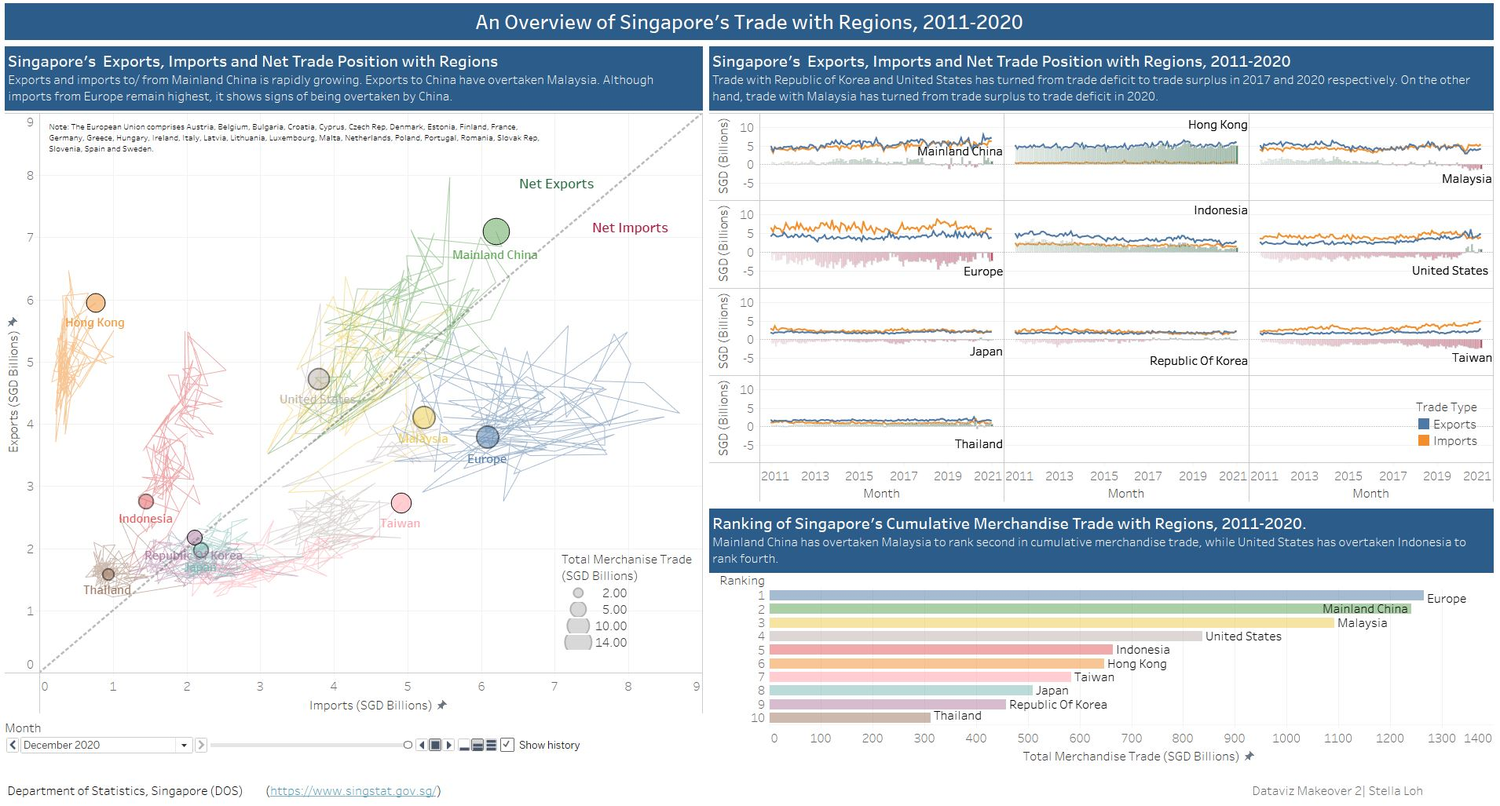
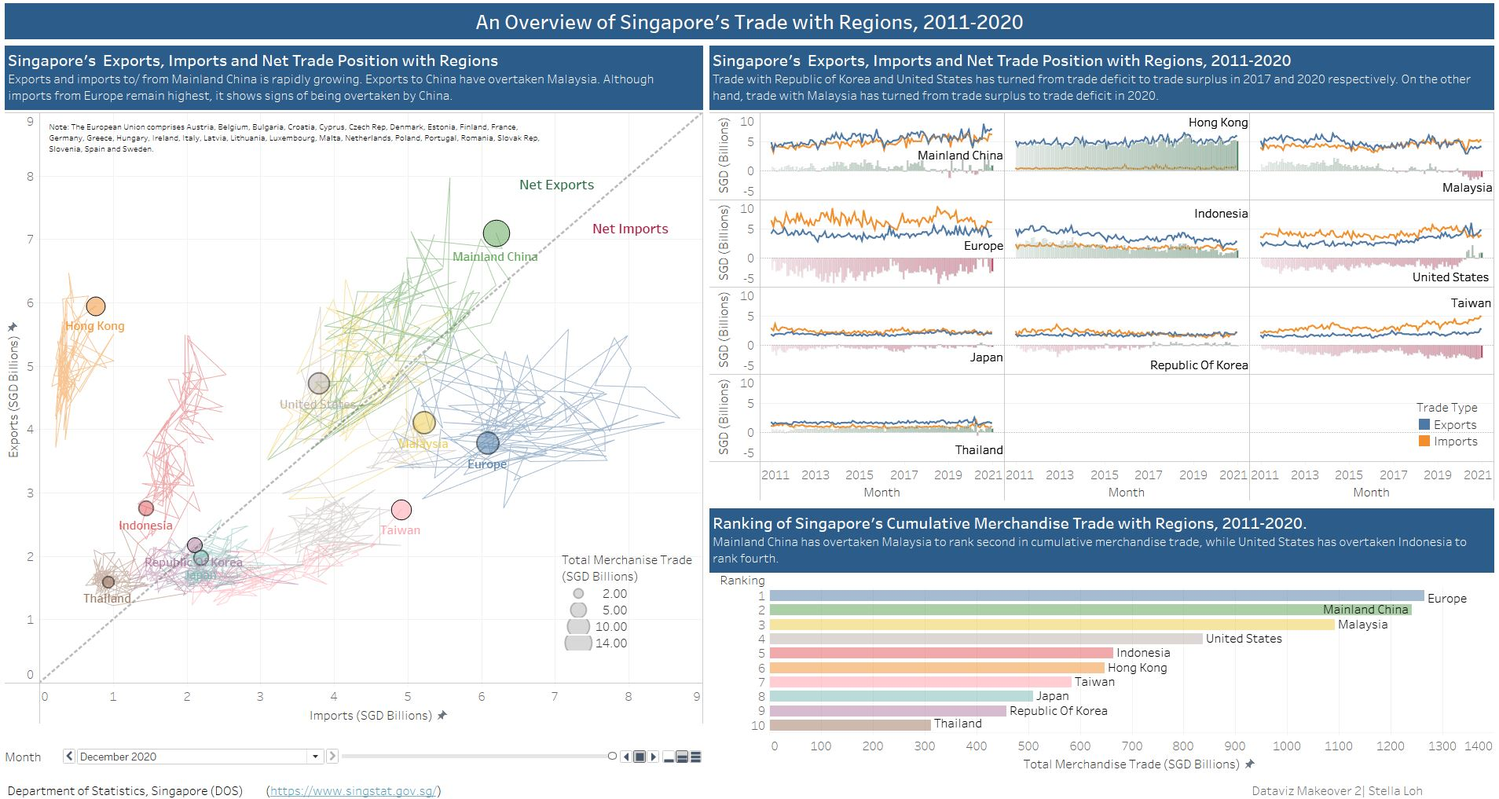
Finalize post 2

diff --git a/_posts/2021-06-08-dataviz-makeover2/dataviz-makeover2.html b/_posts/2021-06-08-dataviz-makeover2/dataviz-makeover2.html
@@ -116,7 +116,7 @@ code span.wa { color: #5e5e5e; font-style: italic; } /* Warning */
   <!--/radix_placeholder_rmarkdown_metadata-->
   
   <script type="text/json" id="radix-resource-manifest">
-  {"type":"character","attributes":{},"value":["dataviz-makeover2_files/anchor-4.2.2/anchor.min.js","dataviz-makeover2_files/bowser-1.9.3/bowser.min.js","dataviz-makeover2_files/distill-2.2.21/template.v2.js","dataviz-makeover2_files/header-attrs-2.8/header-attrs.js","dataviz-makeover2_files/jquery-1.11.3/jquery.min.js","dataviz-makeover2_files/popper-2.6.0/popper.min.js","dataviz-makeover2_files/tippy-6.2.7/tippy-bundle.umd.min.js","dataviz-makeover2_files/tippy-6.2.7/tippy-light-border.css","dataviz-makeover2_files/tippy-6.2.7/tippy.css","dataviz-makeover2_files/tippy-6.2.7/tippy.umd.min.js","dataviz-makeover2_files/webcomponents-2.0.0/webcomponents.js","Image/AddAnnotations.JPG","Image/AddLabels.JPG","Image/AddTrendLines.JPG","Image/AdjOpacity.JPG","Image/AnimationSelection.JPG","Image/AnimationSelectionBubble.JPG","Image/AnimationSettings.JPG","Image/AutoConnect.JPG","Image/BarLabels.JPG","Image/BubbleTooltip.JPG","Image/ChangeToBubble.JPG","Image/CleanStep.JPG","Image/CountryCalcField.JPG","Image/CountryToToolTip.JPG","Image/Createx-axis.JPG","Image/Createy-axis.JPG","Image/CurrentSetUp.JPG","Image/DashboardSize.JPG","Image/DashboardTitle.JPG","Image/DateToCol.JPG","Image/DatetoPages.JPG","Image/DatetoPagesBar.JPG","Image/DatetoPagesBubble.JPG","Image/DiagramJoinStep.jpg","Image/DiscreteFields.JPG","Image/EditAlias.JPG","Image/EditHighlight.JPG","Image/EditLabelPane.JPG","Image/EditSize.JPG","Image/EditTableCalc.JPG","Image/ExportsAligned.jpg","Image/ExportsAlignedMarkscard.JPG","Image/ExportstoCol.JPG","Image/fin.JPG","Image/finalviz.jpg","Image/FitHeight.JPG","Image/FormatDP.JPG","Image/FormatDPBar.JPG","Image/FormatDPBubble.JPG","Image/FormatTitle.JPG","Image/FormatTrendLines.JPG","Image/HideColFieldHeader.JPG","Image/HideColFieldLabels.JPG","Image/HideDualAxisHeader.JPG","Image/HideHeader.JPG","Image/HideRegion.JPG","Image/HideRowHeader.JPG","Image/ImportsAligned.jpg","Image/InitialViz.jpg","Image/JoinClauses.JPG","Image/LabelSelection.JPG","Image/LineSize.JPG","Image/LineSizeBubble.JPG","Image/MarksCardBar.JPG","Image/MarkscardColor.JPG","Image/MarkscardLabel.JPG","Image/MarkscardRegion.JPG","Image/MeasureValuesSlider.JPG","Image/MeasureValuesToCircle.JPG","Image/MeasureValuesTooltip.JPG","Image/MonthBar.JPG","Image/NetExportPosition.JPG","Image/NetExportsImportsCalc.JPG","Image/NetImportPosition.JPG","Image/Obs1.JPG","Image/Obs10.JPG","Image/Obs2.JPG","Image/Obs3.JPG","Image/Obs4.JPG","Image/Obs5.JPG","Image/Obs6.JPG","Image/Obs7.JPG","Image/Obs8.JPG","Image/Obs9.JPG","Image/OutputSelections.JPG","Image/PivotSheets.jpg","Image/proposeddesign.jpg","Image/RankingBubble.JPG","Image/RankingCalc.JPG","Image/RankingComp.JPG","Image/RankingRunCalc.JPG","Image/RankingTabCalc.JPG","Image/RankingTableCalc.JPG","Image/RegionDetail.JPG","Image/Rows.JPG","Image/RunningTotalCalc.JPG","Image/RunTotalCalc.JPG","Image/RunTotalCol.JPG","Image/SanitiseData.JPG","Image/SelectSheets.jpg","Image/SetUp.JPG","Image/Sketch.JPG","Image/SortExports.JPG","Image/SplitColumn.JPG","Image/SyncAxis.JPG","Image/thumbnail_IMG_9062.jpg","Image/ToolTipBar.JPG","Image/ToolTipNetExport.JPG","Image/TotalMerchTrade.JPG","Image/TotalMerchTradeSize.JPG","Image/TradeType.JPG","Image/TradeTypeBar.JPG","Image/TrimVariables.JPG","Image/UpdateColor.JPG","Image/UpdateColorBar.JPG","Image/UpdateLegend-animation.JPG","Image/UpdateLegend.JPG","Image/UpdateLegendBar-animation.JPG","Image/UpdateLegendDate.JPG","Image/UpdateLegendMerchTrade.JPG","Image/UpdateNetExportColors.JPG","Image/UpdateOpacity.JPG","Image/UpdateSize.JPG","Image/xGeneralPane.JPG","Image/xGeneralPaneBar.JPG","Image/xGeneralPaneBubble.JPG","Image/xGeneralPaneMerchTrade.JPG","Image/xTickMarksPane.JPG","Image/xTickMarksPaneBar.JPG","Image/xTickMarksPaneBubble.JPG","Image/xTickMarksPaneMerchTrade.JPG","Image/yGeneralPane.JPG","Image/yGeneralPaneBubble.JPG","Image/yTickMarksPane.JPG","Image/yTickMarksPaneBubble.JPG"]}
+  {"type":"character","attributes":{},"value":["dataviz-makeover2_files/anchor-4.2.2/anchor.min.js","dataviz-makeover2_files/bowser-1.9.3/bowser.min.js","dataviz-makeover2_files/distill-2.2.21/template.v2.js","dataviz-makeover2_files/header-attrs-2.8/header-attrs.js","dataviz-makeover2_files/jquery-1.11.3/jquery.min.js","dataviz-makeover2_files/popper-2.6.0/popper.min.js","dataviz-makeover2_files/tippy-6.2.7/tippy-bundle.umd.min.js","dataviz-makeover2_files/tippy-6.2.7/tippy-light-border.css","dataviz-makeover2_files/tippy-6.2.7/tippy.css","dataviz-makeover2_files/tippy-6.2.7/tippy.umd.min.js","dataviz-makeover2_files/webcomponents-2.0.0/webcomponents.js","Image/AddAnnotations.JPG","Image/AddLabels.JPG","Image/AddTrendLines.JPG","Image/AdjOpacity.JPG","Image/AnimationSelection.JPG","Image/AnimationSelectionBubble.JPG","Image/AnimationSettings.JPG","Image/AutoConnect.JPG","Image/BarLabels.JPG","Image/BubbleTooltip.JPG","Image/ChangeToBubble.JPG","Image/CleanStep.JPG","Image/CountryCalcField.JPG","Image/CountryToToolTip.JPG","Image/Createx-axis.JPG","Image/Createy-axis.JPG","Image/CurrentSetUp.JPG","Image/DashboardSize.JPG","Image/DashboardTitle.JPG","Image/DateToCol.JPG","Image/DatetoPages.JPG","Image/DatetoPagesBar.JPG","Image/DatetoPagesBubble.JPG","Image/DiagramJoinStep.jpg","Image/DiscreteFields.JPG","Image/EditAlias.JPG","Image/EditHighlight.JPG","Image/EditLabelPane.JPG","Image/EditSize.JPG","Image/EditTableCalc.JPG","Image/ExportsAligned.jpg","Image/ExportsAlignedMarkscard.JPG","Image/ExportstoCol.JPG","Image/fin.JPG","Image/finalviz.jpg","Image/FitHeight.JPG","Image/FormatDP.JPG","Image/FormatDPBar.JPG","Image/FormatDPBubble.JPG","Image/FormatTitle.JPG","Image/FormatTrendLines.JPG","Image/HideColFieldHeader.JPG","Image/HideColFieldLabels.JPG","Image/HideDualAxisHeader.JPG","Image/HideHeader.JPG","Image/HideRegion.JPG","Image/HideRowHeader.JPG","Image/ImportsAligned.jpg","Image/InitialViz.jpg","Image/JoinClauses.JPG","Image/LabelSelection.JPG","Image/LineSize.JPG","Image/LineSizeBubble.JPG","Image/MarksCardBar.JPG","Image/MarkscardColor.JPG","Image/MarkscardLabel.JPG","Image/MarkscardRegion.JPG","Image/MeasureValuesSlider.JPG","Image/MeasureValuesToCircle.JPG","Image/MeasureValuesTooltip.JPG","Image/MonthBar.JPG","Image/NetExportPosition.JPG","Image/NetExportsImportsCalc.JPG","Image/NetImportPosition.JPG","Image/Obs1.JPG","Image/Obs10.JPG","Image/Obs2.JPG","Image/Obs3.JPG","Image/Obs4.JPG","Image/Obs5.JPG","Image/Obs6.JPG","Image/Obs7.JPG","Image/Obs8.JPG","Image/Obs9.JPG","Image/OutputSelections.JPG","Image/PivotSheets.jpg","Image/proposeddesign.jpg","Image/RankingBubble.JPG","Image/RankingCalc.JPG","Image/RankingComp.JPG","Image/RankingRunCalc.JPG","Image/RankingTabCalc.JPG","Image/RankingTableCalc.JPG","Image/RegionDetail.JPG","Image/Rows.JPG","Image/RunningTotalCalc.JPG","Image/RunTotalCalc.JPG","Image/RunTotalCol.JPG","Image/SanitiseData.JPG","Image/SelectSheets.jpg","Image/SetUp.JPG","Image/Sketch.JPG","Image/SliderCustomise.JPG","Image/SortExports.JPG","Image/SplitColumn.JPG","Image/SyncAxis.JPG","Image/thumbnail_IMG_9062.jpg","Image/ToolTipBar.JPG","Image/ToolTipNetExport.JPG","Image/TotalMerchTrade.JPG","Image/TotalMerchTradeSize.JPG","Image/TradeType.JPG","Image/TradeTypeBar.JPG","Image/TrimVariables.JPG","Image/UpdateColor.JPG","Image/UpdateColorBar.JPG","Image/UpdateLegend-animation.JPG","Image/UpdateLegend.JPG","Image/UpdateLegendBar-animation.JPG","Image/UpdateLegendDate.JPG","Image/UpdateLegendMerchTrade.JPG","Image/UpdateNetExportColors.JPG","Image/UpdateOpacity.JPG","Image/UpdateSize.JPG","Image/xGeneralPane.JPG","Image/xGeneralPaneBar.JPG","Image/xGeneralPaneBubble.JPG","Image/xGeneralPaneMerchTrade.JPG","Image/xTickMarksPane.JPG","Image/xTickMarksPaneBar.JPG","Image/xTickMarksPaneBubble.JPG","Image/xTickMarksPaneMerchTrade.JPG","Image/yGeneralPane.JPG","Image/yGeneralPaneBubble.JPG","Image/yTickMarksPane.JPG","Image/yTickMarksPaneBubble.JPG"]}
   </script>
   <!--radix_placeholder_navigation_in_header-->
   <!--/radix_placeholder_navigation_in_header-->
@@ -2144,6 +2144,12 @@ body{
 <figure>
 <img src="Image/finalviz.jpg" alt="Figure 101: Add annotations" /><figcaption aria-hidden="true">Figure 101: Add annotations</figcaption>
 </figure>
+<ol start="71" type="1">
+<li>Next, we will customize the date slider. Right click on arrow next to the date container. Select Customize &gt; Click on Show History Controls. This will remove the checkbox for Show History.</li>
+</ol>
+<figure>
+<img src="Image/SliderCustomise.JPG" alt="Figure 102: Add annotations" /><figcaption aria-hidden="true">Figure 102: Add annotations</figcaption>
+</figure>
 <p>Note: We have decided not to utilize the simultaneous style animation offered in Tableau Desktop. Utilizing this style would not allow us to see the history of net trade in the line charts, which offers users insights into how the net trade for each region is trending.</p>
 <h1 id="observations">6. Observations</h1>
 <p>One way to study Singapore’s trade patterns with various trading partners is to track how net trade changes across time. The above dashboard does this by plotting Singapore’s exports, imports, net trade and cumulative merchandise trade with various regions, for the period 2011-2020.</p>
@@ -2159,25 +2165,25 @@ body{
 <li>Imports from Taiwan reached a new high in Dec’20 (S$4.91 billion) and has been on a steady uptrend in 2020. Although exports to Taiwan has also reached a new high in Dec’20 (S$2.73 billion), the rate of increase in imports exceeds that of exports in 2020, resulting in a growing trade deficit with Taiwan. This can be observed from the steeper slope of the import line compared to export line in 2020. </br> A possible reason for the increase in imports could be due to the Covid-19 pandemic. Taiwan was able to successfully control the pandemic as compared to some of Singapore’s other trade partners. Hence some of the imports may have been diverted to Taiwan.</li>
 </ol>
 <figure>
-<img src="Image/Obs1.JPG" style="width:75.0%" alt="Figure 102: Taiwan line chart" /><figcaption aria-hidden="true">Figure 102: Taiwan line chart</figcaption>
+<img src="Image/Obs1.JPG" style="width:75.0%" alt="Figure 103: Taiwan line chart" /><figcaption aria-hidden="true">Figure 103: Taiwan line chart</figcaption>
 </figure>
 <ol start="2" type="1">
 <li>Both exports and imports from Malaysia saw a steep decline in Apr’20 and rebounded strongly in Jun’20. This may be due to the circuit breaker and MCO period in Singapore and Malaysia respectively where citizens were encouraged to stay home and many shops were closed for business, resulting in lower imports by both Singapore and Malaysia. The circuit breaker period in Singapore began in Apr’20 and measures were <a href="https://www.channelnewsasia.com/news/singapore/covid-19-circuit-breaker-chronicles-charting-evolution-12779048">relaxed in Jun’20</a>, which coincides with the strong rebound in imports. </br> Singapore has consistently been in a net trade deficit with Malaysia since early 2020. Singapore <a href="https://www.sfa.gov.sg/food-farming/singapore-food-supply/the-food-we-eat#:~:text=With%20little%20farming%20land%2C%20Singapore,13%25%20of%20all%20the%20vegetables">imports over 90% of the food consumed</a> in the country and hence the lack of transportation options, coupled with the severity of the pandemic in some of the trading partners, may have resulted in increased imports from Malaysia due its geographical proximity.</li>
 </ol>
 <figure>
-<img src="Image/Obs2.JPG" alt="Figure 103: Malaysia line chart" /><figcaption aria-hidden="true">Figure 103: Malaysia line chart</figcaption>
+<img src="Image/Obs2.JPG" alt="Figure 104: Malaysia line chart" /><figcaption aria-hidden="true">Figure 104: Malaysia line chart</figcaption>
 </figure>
 <ol start="3" type="1">
 <li>Singapore’s net trade deficit with United States has been showing a decreasing trend since Aug’19, and eventually becoming a net trade surplus for most of 2020. This is due to declining imports, with the largest decline (S$1.45 billion) between Mar’20 and May’20. We also see an increasing trend for exports to United States with a steady increase since Feb’17 and peaking in Jul’20 (S$5.94 billion).</li>
 </ol>
 <figure>
-<img src="Image/Obs3.JPG" alt="Figure 104: United States line chart" /><figcaption aria-hidden="true">Figure 104: United States line chart</figcaption>
+<img src="Image/Obs3.JPG" alt="Figure 105: United States line chart" /><figcaption aria-hidden="true">Figure 105: United States line chart</figcaption>
 </figure>
 <ol start="4" type="1">
 <li>We have also observed a declining trade deficit with Europe, brought about by declining imports. Imports peaked in Jul’18 (S$8.69 billion) and has seen a downtrend since. We noticed a sharp dip in imports between May’19 to Jun’19 (S$7.99 billion to S$6.05 billion), before recovering slightly and another sharp dip between Jan’20 to May’20 (S$6.86 billion to S$4.63 billion). This may be due to heightened pandemic measures leading to the circuit breaker period in Singapore. As most shops were closed during this period and citizens were encouraged to stay in, this may have reduced demand for machinery and vehicles, which are the <a href="https://ec.europa.eu/eurostat/statistics-explained/index.php?title=Singapore-EU_-_international_trade_in_goods_statistics#EU-Singapore_trade_by_type_of_goods">main imports from Europe</a>. </br> We also noticed that net trade deficit with Europe forms a double hump pattern- increasing steadily from 2011 and peaking in Oct’13 (-S$4.37 billion), then steadily declining to a low in May’16. This is followed by a steady increase and peaking once more in Jul’18 (-S$4.52 billion) and downtrend till Sep’20.</li>
 </ol>
 <figure>
-<img src="Image/Obs4.JPG" alt="Figure 105: Europe line chart" /><figcaption aria-hidden="true">Figure 105: Europe line chart</figcaption>
+<img src="Image/Obs4.JPG" alt="Figure 106: Europe line chart" /><figcaption aria-hidden="true">Figure 106: Europe line chart</figcaption>
 </figure>
 <ol start="5" type="1">
 <li>The bubble chart shows the trending for each region’s exports and imports over the past ten years. We are able to see the patterns that each region makes over the period, namely:
@@ -2194,37 +2200,37 @@ body{
 </ol></li>
 </ol>
 <figure>
-<img src="Image/Obs5.JPG" alt="Figure 106: Insights from bubble chart" /><figcaption aria-hidden="true">Figure 106: Insights from bubble chart</figcaption>
+<img src="Image/Obs5.JPG" alt="Figure 107: Insights from bubble chart" /><figcaption aria-hidden="true">Figure 107: Insights from bubble chart</figcaption>
 </figure>
 <ol start="6" type="1">
 <li>Singapore’s net trade balance with Indonesia is on a declining trend across the 10 years, mainly brought about by declining exports. Exports peaked in Jul’13 (S$5.49 billion) and has been generally downtrend since. This is consistent with what we observed in the bubble chart where exports are declining at a faster rate compared to imports. Singapore’s <a href="https://www.enterprisesg.gov.sg/-/media/esg/files/media-centre/media-releases/2020/feb-2020/mr-002a20-singapore-and-indonesia/annex-b---latest-bilateral-trade-information-between-indonesia-and-singapore.pdf?la=en">main exports</a> to Indonesia are refined petroleum, petrochemicals and telecommunications equipment.</li>
 </ol>
 <figure>
-<img src="Image/Obs6.JPG" alt="Figure 107: Indonesia line chart" /><figcaption aria-hidden="true">Figure 107: Indonesia line chart</figcaption>
+<img src="Image/Obs6.JPG" alt="Figure 108: Indonesia line chart" /><figcaption aria-hidden="true">Figure 108: Indonesia line chart</figcaption>
 </figure>
 <ol start="7" type="1">
 <li>Singapore’s trade deficit with Republic of Korea has turned to a consistent trade surplus since 2018. This is mainly due to declining imports while exports have remained relatively consistent. Imports peaked in Nov’12 (S$3.52 billion) and has been generally downtrend since.</li>
 </ol>
 <figure>
-<img src="Image/Obs7.JPG" alt="Figure 108: Korea line chart" /><figcaption aria-hidden="true">Figure 108: Korea line chart</figcaption>
+<img src="Image/Obs7.JPG" alt="Figure 109: Korea line chart" /><figcaption aria-hidden="true">Figure 109: Korea line chart</figcaption>
 </figure>
 <ol start="8" type="1">
 <li>Sharp increase in exports to Thailand from S$1.70 billion to S$2.51 billion between Feb’20 to Mar’20, followed by a steep decline till May’20 (S$2.51 billion to S$1.22 billion). We see a similar spike in imports from Thailand from S$1.09 billion to S$1.98 billion between Mar’20 and Apr’20, followed by a sharp decline to S$0.80 billion in Jun’20. Main exports and imports from Thailand is refined petroleum. <a href="https://www.argusmedia.com/en/news/2129192-thailand-cuts-crude-imports-in-may">Weak refining margins</a> may have prompted Thai refiners to lower crude import volumes in May’20, coinciding with the drop in exports observed.</li>
 </ol>
 <figure>
-<img src="Image/Obs8.JPG" alt="Figure 109: Thailand line chart" /><figcaption aria-hidden="true">Figure 109: Thailand line chart</figcaption>
+<img src="Image/Obs8.JPG" alt="Figure 110: Thailand line chart" /><figcaption aria-hidden="true">Figure 110: Thailand line chart</figcaption>
 </figure>
 <ol start="9" type="1">
 <li>Sharp decline in exports and imports to/from Mainland China observed between Dec’19 to Feb’20. Exports decreased from S$7.00 billion to S$3.91 billion while imports reduced from S$5.99 billion to S$3.98 billion. This decline coincides with the <a href="https://apnews.com/article/pandemics-wuhan-china-coronavirus-pandemic-e6147ec0ff88affb99c811149424239d">lockdown</a> in certain Chinese cities due to the severity of the pandemic. </br> Imports quickly rebounded to S$5.98 billion in Mar’20 while exports only showed a rebound and new high following Jul’20. Exports to Mainland China increased sharply between Jul’20 (S$5.40 billion) to Aug’20 (S$7.97 billion) and has been maintaining at a higher range since then. This may be due to China being one of the first countries to recover economically from the pandemic. China’s economy picked up speed in the fourth quarter of 2020, with <a href="https://www.straitstimes.com/business/economy/china-becomes-only-major-economy-to-avoid-recession-in-2020-growth-accelerates-in">growth beating expectations</a>. This may explain the increase in exports to China during the second half of 2020.</li>
 </ol>
 <figure>
-<img src="Image/Obs9.JPG" alt="Figure 110: China line chart" /><figcaption aria-hidden="true">Figure 110: China line chart</figcaption>
+<img src="Image/Obs9.JPG" alt="Figure 111: China line chart" /><figcaption aria-hidden="true">Figure 111: China line chart</figcaption>
 </figure>
 <ol start="10" type="1">
 <li>Mainland China has overtaken Malaysia to rank second highest in terms of cumulative merchandise trade over the period, since Apr’15. It has been able to widen the gap between second and third place since. United States has overtaken Indonesia to rank forth in terms of cumulative merchandise trade over the period, since Oct’15.</li>
 </ol>
 <figure>
-<img src="Image/Obs10.JPG" alt="Figure 111: Cumulative Merchandise Trade Bar Chart" /><figcaption aria-hidden="true">Figure 111: Cumulative Merchandise Trade Bar Chart</figcaption>
+<img src="Image/Obs10.JPG" alt="Figure 112: Cumulative Merchandise Trade Bar Chart" /><figcaption aria-hidden="true">Figure 112: Cumulative Merchandise Trade Bar Chart</figcaption>
 </figure>
 <div class="sourceCode" id="cb1"><pre class="sourceCode r distill-force-highlighting-css"><code class="sourceCode r"></code></pre></div>
 <!--radix_placeholder_article_footer-->

diff --git a/_site/posts/2021-06-08-dataviz-makeover2/index.html b/_site/posts/2021-06-08-dataviz-makeover2/index.html
@@ -117,7 +117,7 @@ code span.wa { color: #5e5e5e; font-style: italic; } /* Warning */
 <!--/radix_placeholder_rmarkdown_metadata-->
   
   <script type="text/json" id="radix-resource-manifest">
-  {"type":"character","attributes":{},"value":["dataviz-makeover2_files/anchor-4.2.2/anchor.min.js","dataviz-makeover2_files/bowser-1.9.3/bowser.min.js","dataviz-makeover2_files/distill-2.2.21/template.v2.js","dataviz-makeover2_files/header-attrs-2.8/header-attrs.js","dataviz-makeover2_files/jquery-1.11.3/jquery.min.js","dataviz-makeover2_files/popper-2.6.0/popper.min.js","dataviz-makeover2_files/tippy-6.2.7/tippy-bundle.umd.min.js","dataviz-makeover2_files/tippy-6.2.7/tippy-light-border.css","dataviz-makeover2_files/tippy-6.2.7/tippy.css","dataviz-makeover2_files/tippy-6.2.7/tippy.umd.min.js","dataviz-makeover2_files/webcomponents-2.0.0/webcomponents.js","Image/AddAnnotations.JPG","Image/AddLabels.JPG","Image/AddTrendLines.JPG","Image/AdjOpacity.JPG","Image/AnimationSelection.JPG","Image/AnimationSelectionBubble.JPG","Image/AnimationSettings.JPG","Image/AutoConnect.JPG","Image/BarLabels.JPG","Image/BubbleTooltip.JPG","Image/ChangeToBubble.JPG","Image/CleanStep.JPG","Image/CountryCalcField.JPG","Image/CountryToToolTip.JPG","Image/Createx-axis.JPG","Image/Createy-axis.JPG","Image/CurrentSetUp.JPG","Image/DashboardSize.JPG","Image/DashboardTitle.JPG","Image/DateToCol.JPG","Image/DatetoPages.JPG","Image/DatetoPagesBar.JPG","Image/DatetoPagesBubble.JPG","Image/DiagramJoinStep.jpg","Image/DiscreteFields.JPG","Image/EditAlias.JPG","Image/EditHighlight.JPG","Image/EditLabelPane.JPG","Image/EditSize.JPG","Image/EditTableCalc.JPG","Image/ExportsAligned.jpg","Image/ExportsAlignedMarkscard.JPG","Image/ExportstoCol.JPG","Image/fin.JPG","Image/finalviz.jpg","Image/FitHeight.JPG","Image/FormatDP.JPG","Image/FormatDPBar.JPG","Image/FormatDPBubble.JPG","Image/FormatTitle.JPG","Image/FormatTrendLines.JPG","Image/HideColFieldHeader.JPG","Image/HideColFieldLabels.JPG","Image/HideDualAxisHeader.JPG","Image/HideHeader.JPG","Image/HideRegion.JPG","Image/HideRowHeader.JPG","Image/ImportsAligned.jpg","Image/InitialViz.jpg","Image/JoinClauses.JPG","Image/LabelSelection.JPG","Image/LineSize.JPG","Image/LineSizeBubble.JPG","Image/MarksCardBar.JPG","Image/MarkscardColor.JPG","Image/MarkscardLabel.JPG","Image/MarkscardRegion.JPG","Image/MeasureValuesSlider.JPG","Image/MeasureValuesToCircle.JPG","Image/MeasureValuesTooltip.JPG","Image/MonthBar.JPG","Image/NetExportPosition.JPG","Image/NetExportsImportsCalc.JPG","Image/NetImportPosition.JPG","Image/Obs1.JPG","Image/Obs10.JPG","Image/Obs2.JPG","Image/Obs3.JPG","Image/Obs4.JPG","Image/Obs5.JPG","Image/Obs6.JPG","Image/Obs7.JPG","Image/Obs8.JPG","Image/Obs9.JPG","Image/OutputSelections.JPG","Image/PivotSheets.jpg","Image/proposeddesign.jpg","Image/RankingBubble.JPG","Image/RankingCalc.JPG","Image/RankingComp.JPG","Image/RankingRunCalc.JPG","Image/RankingTabCalc.JPG","Image/RankingTableCalc.JPG","Image/RegionDetail.JPG","Image/Rows.JPG","Image/RunningTotalCalc.JPG","Image/RunTotalCalc.JPG","Image/RunTotalCol.JPG","Image/SanitiseData.JPG","Image/SelectSheets.jpg","Image/SetUp.JPG","Image/Sketch.JPG","Image/SortExports.JPG","Image/SplitColumn.JPG","Image/SyncAxis.JPG","Image/thumbnail_IMG_9062.jpg","Image/ToolTipBar.JPG","Image/ToolTipNetExport.JPG","Image/TotalMerchTrade.JPG","Image/TotalMerchTradeSize.JPG","Image/TradeType.JPG","Image/TradeTypeBar.JPG","Image/TrimVariables.JPG","Image/UpdateColor.JPG","Image/UpdateColorBar.JPG","Image/UpdateLegend-animation.JPG","Image/UpdateLegend.JPG","Image/UpdateLegendBar-animation.JPG","Image/UpdateLegendDate.JPG","Image/UpdateLegendMerchTrade.JPG","Image/UpdateNetExportColors.JPG","Image/UpdateOpacity.JPG","Image/UpdateSize.JPG","Image/xGeneralPane.JPG","Image/xGeneralPaneBar.JPG","Image/xGeneralPaneBubble.JPG","Image/xGeneralPaneMerchTrade.JPG","Image/xTickMarksPane.JPG","Image/xTickMarksPaneBar.JPG","Image/xTickMarksPaneBubble.JPG","Image/xTickMarksPaneMerchTrade.JPG","Image/yGeneralPane.JPG","Image/yGeneralPaneBubble.JPG","Image/yTickMarksPane.JPG","Image/yTickMarksPaneBubble.JPG"]}
+  {"type":"character","attributes":{},"value":["dataviz-makeover2_files/anchor-4.2.2/anchor.min.js","dataviz-makeover2_files/bowser-1.9.3/bowser.min.js","dataviz-makeover2_files/distill-2.2.21/template.v2.js","dataviz-makeover2_files/header-attrs-2.8/header-attrs.js","dataviz-makeover2_files/jquery-1.11.3/jquery.min.js","dataviz-makeover2_files/popper-2.6.0/popper.min.js","dataviz-makeover2_files/tippy-6.2.7/tippy-bundle.umd.min.js","dataviz-makeover2_files/tippy-6.2.7/tippy-light-border.css","dataviz-makeover2_files/tippy-6.2.7/tippy.css","dataviz-makeover2_files/tippy-6.2.7/tippy.umd.min.js","dataviz-makeover2_files/webcomponents-2.0.0/webcomponents.js","Image/AddAnnotations.JPG","Image/AddLabels.JPG","Image/AddTrendLines.JPG","Image/AdjOpacity.JPG","Image/AnimationSelection.JPG","Image/AnimationSelectionBubble.JPG","Image/AnimationSettings.JPG","Image/AutoConnect.JPG","Image/BarLabels.JPG","Image/BubbleTooltip.JPG","Image/ChangeToBubble.JPG","Image/CleanStep.JPG","Image/CountryCalcField.JPG","Image/CountryToToolTip.JPG","Image/Createx-axis.JPG","Image/Createy-axis.JPG","Image/CurrentSetUp.JPG","Image/DashboardSize.JPG","Image/DashboardTitle.JPG","Image/DateToCol.JPG","Image/DatetoPages.JPG","Image/DatetoPagesBar.JPG","Image/DatetoPagesBubble.JPG","Image/DiagramJoinStep.jpg","Image/DiscreteFields.JPG","Image/EditAlias.JPG","Image/EditHighlight.JPG","Image/EditLabelPane.JPG","Image/EditSize.JPG","Image/EditTableCalc.JPG","Image/ExportsAligned.jpg","Image/ExportsAlignedMarkscard.JPG","Image/ExportstoCol.JPG","Image/fin.JPG","Image/finalviz.jpg","Image/FitHeight.JPG","Image/FormatDP.JPG","Image/FormatDPBar.JPG","Image/FormatDPBubble.JPG","Image/FormatTitle.JPG","Image/FormatTrendLines.JPG","Image/HideColFieldHeader.JPG","Image/HideColFieldLabels.JPG","Image/HideDualAxisHeader.JPG","Image/HideHeader.JPG","Image/HideRegion.JPG","Image/HideRowHeader.JPG","Image/ImportsAligned.jpg","Image/InitialViz.jpg","Image/JoinClauses.JPG","Image/LabelSelection.JPG","Image/LineSize.JPG","Image/LineSizeBubble.JPG","Image/MarksCardBar.JPG","Image/MarkscardColor.JPG","Image/MarkscardLabel.JPG","Image/MarkscardRegion.JPG","Image/MeasureValuesSlider.JPG","Image/MeasureValuesToCircle.JPG","Image/MeasureValuesTooltip.JPG","Image/MonthBar.JPG","Image/NetExportPosition.JPG","Image/NetExportsImportsCalc.JPG","Image/NetImportPosition.JPG","Image/Obs1.JPG","Image/Obs10.JPG","Image/Obs2.JPG","Image/Obs3.JPG","Image/Obs4.JPG","Image/Obs5.JPG","Image/Obs6.JPG","Image/Obs7.JPG","Image/Obs8.JPG","Image/Obs9.JPG","Image/OutputSelections.JPG","Image/PivotSheets.jpg","Image/proposeddesign.jpg","Image/RankingBubble.JPG","Image/RankingCalc.JPG","Image/RankingComp.JPG","Image/RankingRunCalc.JPG","Image/RankingTabCalc.JPG","Image/RankingTableCalc.JPG","Image/RegionDetail.JPG","Image/Rows.JPG","Image/RunningTotalCalc.JPG","Image/RunTotalCalc.JPG","Image/RunTotalCol.JPG","Image/SanitiseData.JPG","Image/SelectSheets.jpg","Image/SetUp.JPG","Image/Sketch.JPG","Image/SliderCustomise.JPG","Image/SortExports.JPG","Image/SplitColumn.JPG","Image/SyncAxis.JPG","Image/thumbnail_IMG_9062.jpg","Image/ToolTipBar.JPG","Image/ToolTipNetExport.JPG","Image/TotalMerchTrade.JPG","Image/TotalMerchTradeSize.JPG","Image/TradeType.JPG","Image/TradeTypeBar.JPG","Image/TrimVariables.JPG","Image/UpdateColor.JPG","Image/UpdateColorBar.JPG","Image/UpdateLegend-animation.JPG","Image/UpdateLegend.JPG","Image/UpdateLegendBar-animation.JPG","Image/UpdateLegendDate.JPG","Image/UpdateLegendMerchTrade.JPG","Image/UpdateNetExportColors.JPG","Image/UpdateOpacity.JPG","Image/UpdateSize.JPG","Image/xGeneralPane.JPG","Image/xGeneralPaneBar.JPG","Image/xGeneralPaneBubble.JPG","Image/xGeneralPaneMerchTrade.JPG","Image/xTickMarksPane.JPG","Image/xTickMarksPaneBar.JPG","Image/xTickMarksPaneBubble.JPG","Image/xTickMarksPaneMerchTrade.JPG","Image/yGeneralPane.JPG","Image/yGeneralPaneBubble.JPG","Image/yTickMarksPane.JPG","Image/yTickMarksPaneBubble.JPG"]}
   </script>
   <!--radix_placeholder_navigation_in_header-->
 <meta name="distill:offset" content="../.."/>
@@ -2764,6 +2764,12 @@ body{
 <figure>
 <img src="Image/finalviz.jpg" alt="Figure 101: Add annotations" /><figcaption aria-hidden="true">Figure 101: Add annotations</figcaption>
 </figure>
+<ol start="71" type="1">
+<li>Next, we will customize the date slider. Right click on arrow next to the date container. Select Customize &gt; Click on Show History Controls. This will remove the checkbox for Show History.</li>
+</ol>
+<figure>
+<img src="Image/SliderCustomise.JPG" alt="Figure 102: Add annotations" /><figcaption aria-hidden="true">Figure 102: Add annotations</figcaption>
+</figure>
 <p>Note: We have decided not to utilize the simultaneous style animation offered in Tableau Desktop. Utilizing this style would not allow us to see the history of net trade in the line charts, which offers users insights into how the net trade for each region is trending.</p>
 <h1 id="observations">6. Observations</h1>
 <p>One way to study Singapore’s trade patterns with various trading partners is to track how net trade changes across time. The above dashboard does this by plotting Singapore’s exports, imports, net trade and cumulative merchandise trade with various regions, for the period 2011-2020.</p>
@@ -2779,25 +2785,25 @@ body{
 <li>Imports from Taiwan reached a new high in Dec’20 (S$4.91 billion) and has been on a steady uptrend in 2020. Although exports to Taiwan has also reached a new high in Dec’20 (S$2.73 billion), the rate of increase in imports exceeds that of exports in 2020, resulting in a growing trade deficit with Taiwan. This can be observed from the steeper slope of the import line compared to export line in 2020. </br> A possible reason for the increase in imports could be due to the Covid-19 pandemic. Taiwan was able to successfully control the pandemic as compared to some of Singapore’s other trade partners. Hence some of the imports may have been diverted to Taiwan.</li>
 </ol>
 <figure>
-<img src="Image/Obs1.JPG" style="width:75.0%" alt="Figure 102: Taiwan line chart" /><figcaption aria-hidden="true">Figure 102: Taiwan line chart</figcaption>
+<img src="Image/Obs1.JPG" style="width:75.0%" alt="Figure 103: Taiwan line chart" /><figcaption aria-hidden="true">Figure 103: Taiwan line chart</figcaption>
 </figure>
 <ol start="2" type="1">
 <li>Both exports and imports from Malaysia saw a steep decline in Apr’20 and rebounded strongly in Jun’20. This may be due to the circuit breaker and MCO period in Singapore and Malaysia respectively where citizens were encouraged to stay home and many shops were closed for business, resulting in lower imports by both Singapore and Malaysia. The circuit breaker period in Singapore began in Apr’20 and measures were <a href="https://www.channelnewsasia.com/news/singapore/covid-19-circuit-breaker-chronicles-charting-evolution-12779048">relaxed in Jun’20</a>, which coincides with the strong rebound in imports. </br> Singapore has consistently been in a net trade deficit with Malaysia since early 2020. Singapore <a href="https://www.sfa.gov.sg/food-farming/singapore-food-supply/the-food-we-eat#:~:text=With%20little%20farming%20land%2C%20Singapore,13%25%20of%20all%20the%20vegetables">imports over 90% of the food consumed</a> in the country and hence the lack of transportation options, coupled with the severity of the pandemic in some of the trading partners, may have resulted in increased imports from Malaysia due its geographical proximity.</li>
 </ol>
 <figure>
-<img src="Image/Obs2.JPG" alt="Figure 103: Malaysia line chart" /><figcaption aria-hidden="true">Figure 103: Malaysia line chart</figcaption>
+<img src="Image/Obs2.JPG" alt="Figure 104: Malaysia line chart" /><figcaption aria-hidden="true">Figure 104: Malaysia line chart</figcaption>
 </figure>
 <ol start="3" type="1">
 <li>Singapore’s net trade deficit with United States has been showing a decreasing trend since Aug’19, and eventually becoming a net trade surplus for most of 2020. This is due to declining imports, with the largest decline (S$1.45 billion) between Mar’20 and May’20. We also see an increasing trend for exports to United States with a steady increase since Feb’17 and peaking in Jul’20 (S$5.94 billion).</li>
 </ol>
 <figure>
-<img src="Image/Obs3.JPG" alt="Figure 104: United States line chart" /><figcaption aria-hidden="true">Figure 104: United States line chart</figcaption>
+<img src="Image/Obs3.JPG" alt="Figure 105: United States line chart" /><figcaption aria-hidden="true">Figure 105: United States line chart</figcaption>
 </figure>
 <ol start="4" type="1">
 <li>We have also observed a declining trade deficit with Europe, brought about by declining imports. Imports peaked in Jul’18 (S$8.69 billion) and has seen a downtrend since. We noticed a sharp dip in imports between May’19 to Jun’19 (S$7.99 billion to S$6.05 billion), before recovering slightly and another sharp dip between Jan’20 to May’20 (S$6.86 billion to S$4.63 billion). This may be due to heightened pandemic measures leading to the circuit breaker period in Singapore. As most shops were closed during this period and citizens were encouraged to stay in, this may have reduced demand for machinery and vehicles, which are the <a href="https://ec.europa.eu/eurostat/statistics-explained/index.php?title=Singapore-EU_-_international_trade_in_goods_statistics#EU-Singapore_trade_by_type_of_goods">main imports from Europe</a>. </br> We also noticed that net trade deficit with Europe forms a double hump pattern- increasing steadily from 2011 and peaking in Oct’13 (-S$4.37 billion), then steadily declining to a low in May’16. This is followed by a steady increase and peaking once more in Jul’18 (-S$4.52 billion) and downtrend till Sep’20.</li>
 </ol>
 <figure>
-<img src="Image/Obs4.JPG" alt="Figure 105: Europe line chart" /><figcaption aria-hidden="true">Figure 105: Europe line chart</figcaption>
+<img src="Image/Obs4.JPG" alt="Figure 106: Europe line chart" /><figcaption aria-hidden="true">Figure 106: Europe line chart</figcaption>
 </figure>
 <ol start="5" type="1">
 <li>The bubble chart shows the trending for each region’s exports and imports over the past ten years. We are able to see the patterns that each region makes over the period, namely:
@@ -2814,37 +2820,37 @@ body{
 </ol></li>
 </ol>
 <figure>
-<img src="Image/Obs5.JPG" alt="Figure 106: Insights from bubble chart" /><figcaption aria-hidden="true">Figure 106: Insights from bubble chart</figcaption>
+<img src="Image/Obs5.JPG" alt="Figure 107: Insights from bubble chart" /><figcaption aria-hidden="true">Figure 107: Insights from bubble chart</figcaption>
 </figure>
 <ol start="6" type="1">
 <li>Singapore’s net trade balance with Indonesia is on a declining trend across the 10 years, mainly brought about by declining exports. Exports peaked in Jul’13 (S$5.49 billion) and has been generally downtrend since. This is consistent with what we observed in the bubble chart where exports are declining at a faster rate compared to imports. Singapore’s <a href="https://www.enterprisesg.gov.sg/-/media/esg/files/media-centre/media-releases/2020/feb-2020/mr-002a20-singapore-and-indonesia/annex-b---latest-bilateral-trade-information-between-indonesia-and-singapore.pdf?la=en">main exports</a> to Indonesia are refined petroleum, petrochemicals and telecommunications equipment.</li>
 </ol>
 <figure>
-<img src="Image/Obs6.JPG" alt="Figure 107: Indonesia line chart" /><figcaption aria-hidden="true">Figure 107: Indonesia line chart</figcaption>
+<img src="Image/Obs6.JPG" alt="Figure 108: Indonesia line chart" /><figcaption aria-hidden="true">Figure 108: Indonesia line chart</figcaption>
 </figure>
 <ol start="7" type="1">
 <li>Singapore’s trade deficit with Republic of Korea has turned to a consistent trade surplus since 2018. This is mainly due to declining imports while exports have remained relatively consistent. Imports peaked in Nov’12 (S$3.52 billion) and has been generally downtrend since.</li>
 </ol>
 <figure>
-<img src="Image/Obs7.JPG" alt="Figure 108: Korea line chart" /><figcaption aria-hidden="true">Figure 108: Korea line chart</figcaption>
+<img src="Image/Obs7.JPG" alt="Figure 109: Korea line chart" /><figcaption aria-hidden="true">Figure 109: Korea line chart</figcaption>
 </figure>
 <ol start="8" type="1">
 <li>Sharp increase in exports to Thailand from S$1.70 billion to S$2.51 billion between Feb’20 to Mar’20, followed by a steep decline till May’20 (S$2.51 billion to S$1.22 billion). We see a similar spike in imports from Thailand from S$1.09 billion to S$1.98 billion between Mar’20 and Apr’20, followed by a sharp decline to S$0.80 billion in Jun’20. Main exports and imports from Thailand is refined petroleum. <a href="https://www.argusmedia.com/en/news/2129192-thailand-cuts-crude-imports-in-may">Weak refining margins</a> may have prompted Thai refiners to lower crude import volumes in May’20, coinciding with the drop in exports observed.</li>
 </ol>
 <figure>
-<img src="Image/Obs8.JPG" alt="Figure 109: Thailand line chart" /><figcaption aria-hidden="true">Figure 109: Thailand line chart</figcaption>
+<img src="Image/Obs8.JPG" alt="Figure 110: Thailand line chart" /><figcaption aria-hidden="true">Figure 110: Thailand line chart</figcaption>
 </figure>
 <ol start="9" type="1">
 <li>Sharp decline in exports and imports to/from Mainland China observed between Dec’19 to Feb’20. Exports decreased from S$7.00 billion to S$3.91 billion while imports reduced from S$5.99 billion to S$3.98 billion. This decline coincides with the <a href="https://apnews.com/article/pandemics-wuhan-china-coronavirus-pandemic-e6147ec0ff88affb99c811149424239d">lockdown</a> in certain Chinese cities due to the severity of the pandemic. </br> Imports quickly rebounded to S$5.98 billion in Mar’20 while exports only showed a rebound and new high following Jul’20. Exports to Mainland China increased sharply between Jul’20 (S$5.40 billion) to Aug’20 (S$7.97 billion) and has been maintaining at a higher range since then. This may be due to China being one of the first countries to recover economically from the pandemic. China’s economy picked up speed in the fourth quarter of 2020, with <a href="https://www.straitstimes.com/business/economy/china-becomes-only-major-economy-to-avoid-recession-in-2020-growth-accelerates-in">growth beating expectations</a>. This may explain the increase in exports to China during the second half of 2020.</li>
 </ol>
 <figure>
-<img src="Image/Obs9.JPG" alt="Figure 110: China line chart" /><figcaption aria-hidden="true">Figure 110: China line chart</figcaption>
+<img src="Image/Obs9.JPG" alt="Figure 111: China line chart" /><figcaption aria-hidden="true">Figure 111: China line chart</figcaption>
 </figure>
 <ol start="10" type="1">
 <li>Mainland China has overtaken Malaysia to rank second highest in terms of cumulative merchandise trade over the period, since Apr’15. It has been able to widen the gap between second and third place since. United States has overtaken Indonesia to rank forth in terms of cumulative merchandise trade over the period, since Oct’15.</li>
 </ol>
 <figure>
-<img src="Image/Obs10.JPG" alt="Figure 111: Cumulative Merchandise Trade Bar Chart" /><figcaption aria-hidden="true">Figure 111: Cumulative Merchandise Trade Bar Chart</figcaption>
+<img src="Image/Obs10.JPG" alt="Figure 112: Cumulative Merchandise Trade Bar Chart" /><figcaption aria-hidden="true">Figure 112: Cumulative Merchandise Trade Bar Chart</figcaption>
 </figure>
 <div class="sourceCode" id="cb1"><pre class="sourceCode r distill-force-highlighting-css"><code class="sourceCode r"></code></pre></div>
 <!--radix_placeholder_article_footer-->
